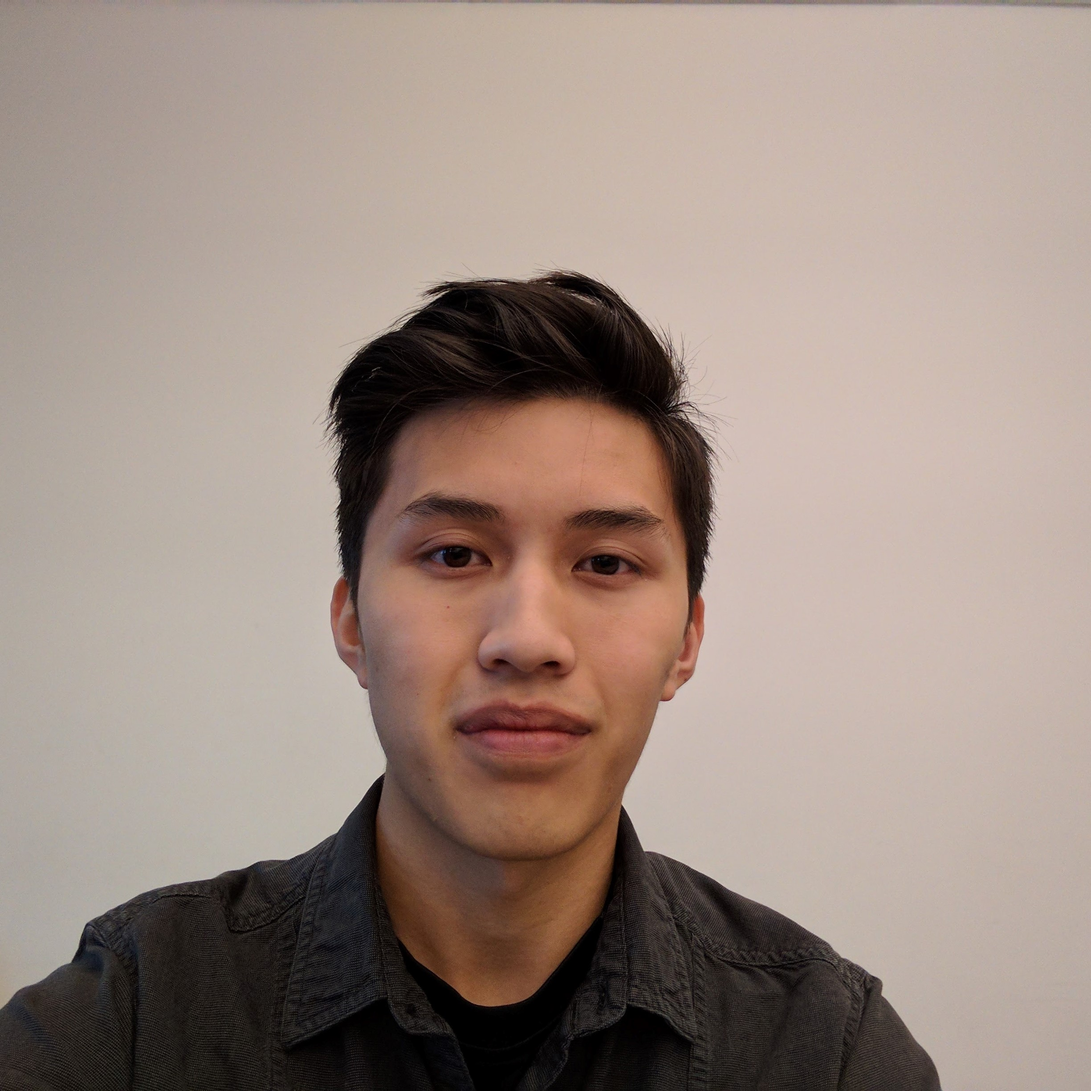
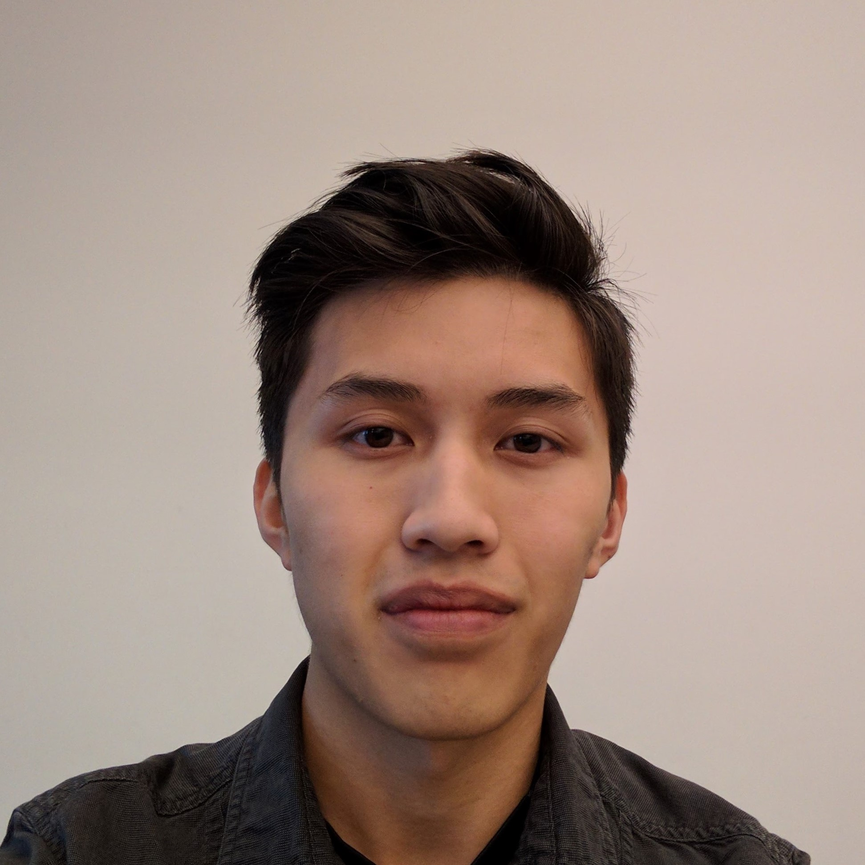
Addes more projects & cleaned up flexbox

Changed region(s): [[0.0, 0.1545, 0.9573, 1.0], [0.4323, 0.0, 1.0, 0.0309], [0.1544, 0.9887, 0.1853, 1.0]]

diff --git a/index.html b/index.html
@@ -22,7 +22,7 @@
     <div class="background">
       <div class="card" id="cardAboutMe" style="background-color: #03A9F4">
           <h3 class="cardHeading"> Who am I? </h3>
-          <img src="profileImage.jpg" style="border-radius: 50%; width: 9vw; height: 9vw; margin: .5em auto; display: block;" border="1px"/>
+          <img src="profileImage.jpg" style="border-radius: 50%; width: 10em; height: 10em; margin: .5em auto; display: block;" border="1px"/>
           <article class="cardContent"
             <p> &lt Hi, i'm a college student and aspiring developer drawn to codes ability to turn ideas into reality /&gt</p>
           </article>
@@ -46,17 +46,54 @@
 
     <!-- Push Up Android App project -->
     <div class="background">
-      <div class="card" id="pushUpCard" style="background-color: #673AB7">
+      <div class="card projectCards" style="background-color: #673AB7">
         <div class="align-flex-center">
           <h3 class="cardHeading">Push-Up Fitness Tracker</h3>
           <img class="iconImage" src="ic_pushUp.png"/>
-          <p class="cardContent" style="font-size: 1.6em">A utilization of the phones proximity sensor for simple push-up tracking needs</p>
+          <div class="projectDescrition">
+            <p class="cardContent">A utilization of the phones proximity sensor for simple push-up tracking needs</p>
+            <a class="storeLinks" href="https://play.google.com/store/apps/details?id=com.awesome.scottquach.proximitypush_upcounter">Play Store Link</a>
+          </div>
         </div>
-        <a class="storeLinks" href="https://play.google.com/store/apps/details?id=com.awesome.scottquach.proximitypush_upcounter">Play store link</a>
       </div>
     </div>
 
-    
+    <!-- Stop Android App Project -->
+    <div class="background">
+      <div class="card projectCards" style="background-color: #FFC107">
+        <div class="align-flex-center">
+          <h3 class="cardHeading">Stop</h3>
+          <image class="iconImage" src="ic_stop.png"/>
+          <div class="projectDescrition">
+            <p class="cardContent">My first app spawning from a High School CS class. Stop the counter at 100 if you can, it's harder than you think </p>
+            <a class="storeLinks" href="https://play.google.com/store/apps/details?id=com.awesome.scott.stop">Play Store Link</a>
+          </div>
+        </div>
+      </div>
+    </div>
+
+    <!-- Portfolio Website Project -->
+    <div class="background">
+      <div class="card projectCards" style="background-color: #3F51B5">
+        <h3 class="cardHeading">Website</h3>
+
+        <p class="cardContent">This website was created by myself utilizing self learned knowledge of fundumental languages such as HTML and CSS.
+          I hope that this will be a continous project as I add new features and designs (such as flexboxes), as front end developement is constantly changing.
+      </div>
+    </div>
+
+    <!-- Contact Me -->
+    <div class="background">
+      <div class="card" style="background-color: #E91E63">
+        <h3 class="cardHeading">Contact Me</h3>
+      </div>
+
+    </div>
 
 </body>
+
+<footer>
+  <div>
+  </div>
+</footer>
 </html>

diff --git a/home page stylesheet.css b/home page stylesheet.css
@@ -23,11 +23,12 @@ body {
   display: flex;
   flex-direction: column;
   flex-grow: 0 1 25%;
+  justify-content: center;
   align-items: center;
 }
 
 .card:hover{
-  box-shadow: 0px 19px 38px rgba(0,0,0,0.25), 0px 5px 33px rgba(0,0,0,0.22);
+  box-shadow: 0px 15px 38px rgba(0,0,0,0.25), 0px 5px 33px rgba(0,0,0,0.22);
 }
 
 .cardHeading {
@@ -63,8 +64,8 @@ body {
 }
 
 .iconImage{
-  width: 20vh;
-  height: 20vh;
+  width: 200px;
+  height: 200px;
 }
 
 .storeLinks {
@@ -75,9 +76,22 @@ body {
   text-transform: uppercase;
 }
 
+.projectDescrition{
+  display: flex;
+  flex-direction: column;
+  align-items: center;
+}
+
 .align-flex-center{
   display: flex;
-  justify-content: space-around;
+  flex-direction: row;
+  justify-content: space-between;
+  align-items: center;
+}
+
+.projectCards {
+  width: 60%;
+  height: 55%;
 }
 
 /* IDs */
@@ -127,12 +141,6 @@ body {
   overflow: auto;
   font-size: 1.6em;
   align-items: space-around;
-}
-
-#pushUpCard{
-  width: 60%;
-  height: 55%;
-  justify-content: center;
 }
 
 /*
